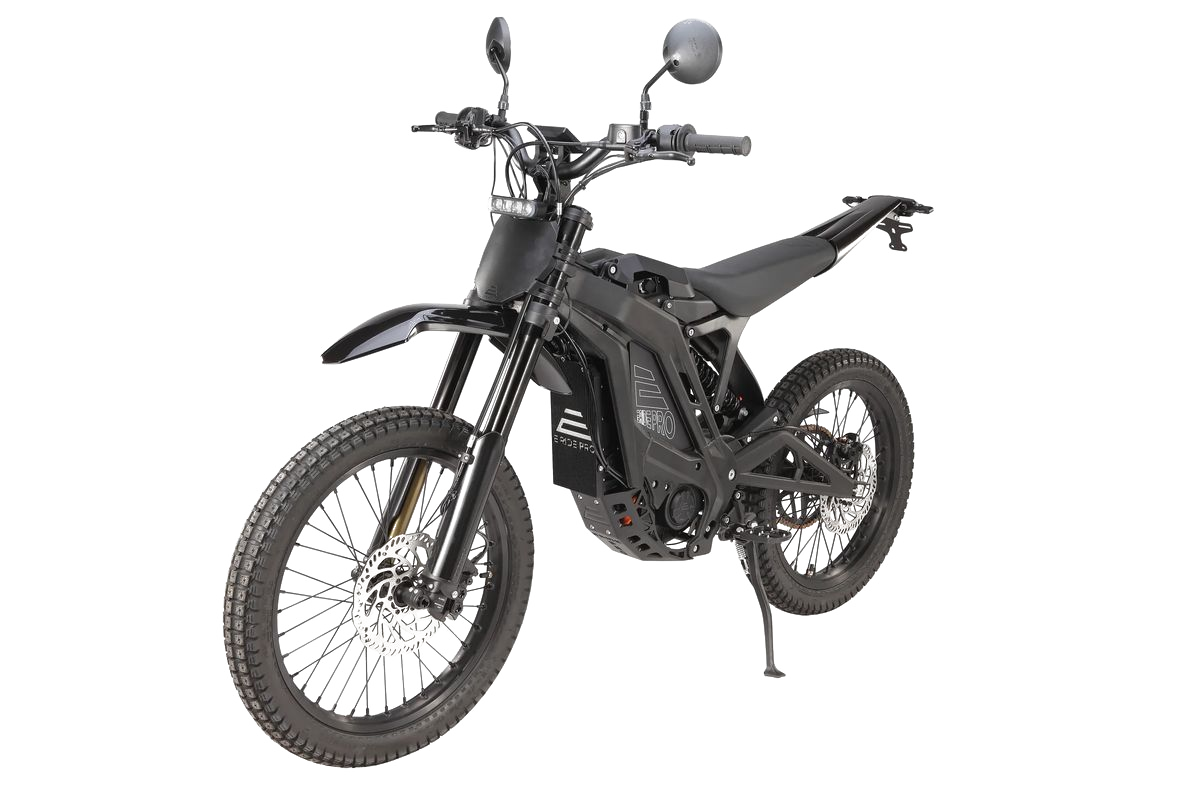
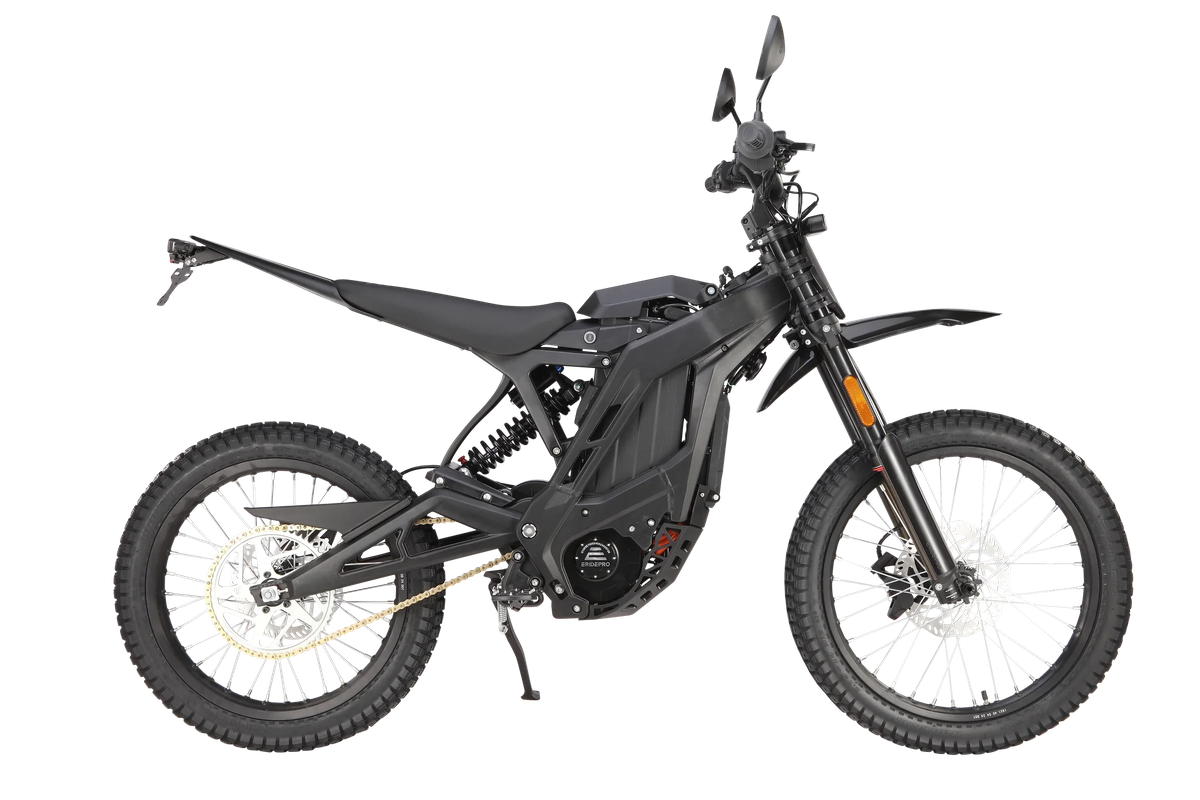
fix(visual): unify product images on dark backgrounds and clean up assets
- Replace broken -main-bg.png references with -main.png across meta tags, manifest, sitemap
- Replace SS 3.0 Off Road logo with actual bike photo
- Replace SS 2.5 L1E and hero images with dark-background variants
- Remove white card frames from product images; use subtle radial gradient instead
- Add Off Road filter and localize filter labels
- Fix Instagram links to point to @user
- Improve cookie consent accessibility (labels, Escape handling)
- Add button types and footer focus styles
- Remove duplicate images/ folder and .DS_Store files

diff --git a/src/components/CookieConsent.tsx b/src/components/CookieConsent.tsx
@@ -1,4 +1,4 @@
-import { useState } from 'react'
+import { useState, useEffect } from 'react'
 import { useLang } from '../hooks/useLang'
 
 interface CookiePreferences {
@@ -38,10 +38,12 @@ function Toggle({
   active,
   onClick,
   disabled,
+  ariaLabel,
 }: {
   active: boolean
   onClick?: () => void
   disabled?: boolean
+  ariaLabel?: string
 }) {
   return (
     <button
@@ -50,6 +52,7 @@ function Toggle({
       disabled={disabled}
       aria-checked={active}
       role="switch"
+      aria-label={ariaLabel}
       className={`relative w-10 h-6 rounded-full flex items-center flex-shrink-0 transition-colors ${
         active ? 'bg-[var(--accent)]' : 'bg-white/10'
       } ${disabled ? 'cursor-default' : 'cursor-pointer'}`}
@@ -75,8 +78,6 @@ export default function CookieConsent() {
     if (typeof window === 'undefined') return defaultPreferences
     return getStoredConsent()?.preferences ?? defaultPreferences
   })
-
-  if (!visible) return null
 
   const acceptAll = () => {
     const allAccepted = {
@@ -155,11 +156,23 @@ export default function CookieConsent() {
 
   const t = translations[isBg ? 'bg' : 'en']
 
+  useEffect(() => {
+    if (!visible) return
+    const onKeyDown = (e: KeyboardEvent) => {
+      if (e.key === 'Escape') {
+        rejectAll()
+      }
+    }
+    document.addEventListener('keydown', onKeyDown)
+    return () => document.removeEventListener('keydown', onKeyDown)
+  }, [visible])
+
+  if (!visible) return null
+
   return (
     <div className="fixed inset-0 z-[200] flex items-end sm:items-center justify-center">
       <div
         className="absolute inset-0 bg-black/60 transition-opacity"
-        onClick={() => setVisible(false)}
         aria-hidden="true"
       />
 
@@ -189,7 +202,7 @@ export default function CookieConsent() {
         {showDetails && (
           <div className="px-6 pb-4 space-y-3 border-t border-white/[0.04] pt-4">
             <div className="flex items-start gap-3">
-              <Toggle active disabled />
+              <Toggle active disabled ariaLabel={t.necessary} />
               <div className="flex-1">
                 <div className="flex items-center justify-between">
                   <span className="text-[14px] font-medium text-white">{t.necessary}</span>
@@ -200,7 +213,7 @@ export default function CookieConsent() {
             </div>
 
             <div className="flex items-start gap-3">
-              <Toggle active={preferences.analytics} onClick={() => togglePreference('analytics')} />
+              <Toggle active={preferences.analytics} onClick={() => togglePreference('analytics')} ariaLabel={t.analytics} />
               <div className="flex-1">
                 <span className="text-[14px] font-medium text-white">{t.analytics}</span>
                 <p className="text-[12px] text-white/40 mt-0.5">{t.analyticsDesc}</p>
@@ -208,7 +221,7 @@ export default function CookieConsent() {
             </div>
 
             <div className="flex items-start gap-3">
-              <Toggle active={preferences.marketing} onClick={() => togglePreference('marketing')} />
+              <Toggle active={preferences.marketing} onClick={() => togglePreference('marketing')} ariaLabel={t.marketing} />
               <div className="flex-1">
                 <span className="text-[14px] font-medium text-white">{t.marketing}</span>
                 <p className="text-[12px] text-white/40 mt-0.5">{t.marketingDesc}</p>
@@ -216,7 +229,7 @@ export default function CookieConsent() {
             </div>
 
             <div className="flex items-start gap-3">
-              <Toggle active={preferences.preferences} onClick={() => togglePreference('preferences')} />
+              <Toggle active={preferences.preferences} onClick={() => togglePreference('preferences')} ariaLabel={t.preferences} />
               <div className="flex-1">
                 <span className="text-[14px] font-medium text-white">{t.preferences}</span>
                 <p className="text-[12px] text-white/40 mt-0.5">{t.preferencesDesc}</p>

diff --git a/src/pages/ProductDetail.tsx b/src/pages/ProductDetail.tsx
@@ -35,12 +35,12 @@ function RelatedModels({ currentProduct }: { currentProduct: ReturnType<typeof g
             to={`/product/${p.slug}`}
             className="group bg-[#1a1a1a] border border-white/[0.06] rounded-2xl overflow-hidden hover:border-white/15 transition-all focus:outline-none focus-visible:ring-2 focus-visible:ring-[var(--accent)]"
           >
-            <div className="aspect-square bg-[#141414] p-4 overflow-hidden">
+            <div className="aspect-square bg-[radial-gradient(circle_at_center,_#2a2a2a_0%,_#1a1a1a_45%,_#0f0f0f_80%)] p-6 overflow-hidden">
               <img
                 src={p.image}
                 alt={p.alt}
                 loading="lazy"
-                className="w-full h-full object-contain group-hover:scale-105 transition-transform duration-500"
+                className="w-full h-full object-contain group-hover:scale-105 transition-transform duration-500 drop-shadow-xl"
                 onError={(e) => { e.currentTarget.style.display = 'none' }}
               />
             </div>
@@ -123,7 +123,7 @@ export default function ProductDetail() {
             </Link>
             <span className="text-white/20">/</span>
             <Link to="/#models" className="text-white/50 hover:text-white transition-colors">
-              MODELS
+              {isBg ? 'МОДЕЛИ' : 'MODELS'}
             </Link>
             <span className="text-white/20">/</span>
             <span className="text-white/80 font-medium" aria-current="page">
@@ -138,15 +138,13 @@ export default function ProductDetail() {
         <div className="grid grid-cols-1 lg:grid-cols-2 gap-10 lg:gap-16 items-start">
           {/* Image gallery */}
           <div className="pd-anim flex gap-3" style={{ opacity: prefersReducedMotion ? 1 : 0 }}>
-            <div className="flex-1 aspect-square bg-[radial-gradient(circle_at_center,_#7a7a7a_0%,_#303030_35%,_#141414_70%)] rounded-2xl overflow-hidden flex items-center justify-center p-6 md:p-10">
-              <div className="w-full h-full bg-white rounded-xl p-5 md:p-8 shadow-[0_25px_60px_rgba(0,0,0,0.55)] flex items-center justify-center">
-                <img
-                  src={product.image}
-                  alt={product.alt}
-                  className="w-full h-full object-contain"
-                  onError={(e) => { e.currentTarget.style.display = 'none' }}
-                />
-              </div>
+            <div className="flex-1 aspect-square bg-[radial-gradient(circle_at_center,_#2a2a2a_0%,_#1a1a1a_45%,_#0f0f0f_80%)] rounded-2xl overflow-hidden flex items-center justify-center p-6 md:p-10">
+              <img
+                src={product.image}
+                alt={product.alt}
+                className="w-full h-full object-contain drop-shadow-2xl"
+                onError={(e) => { e.currentTarget.style.display = 'none' }}
+              />
             </div>
           </div>
 

diff --git a/src/sections/Models.tsx b/src/sections/Models.tsx
@@ -10,7 +10,8 @@ gsap.registerPlugin(ScrollTrigger)
 const filters: { key: FilterKey; label: string; labelBg: string }[] = [
   { key: 'all', label: 'All', labelBg: 'Всички' },
   { key: 'mini', label: 'Mini', labelBg: 'Mini' },
-  { key: 'road-legal', label: 'Road Legal', labelBg: 'Road Legal' },
+  { key: 'road-legal', label: 'Road Legal', labelBg: 'Пътен' },
+  { key: 'off-road-fatty', label: 'Off Road', labelBg: 'Офроуд' },
   { key: 'sr', label: 'SR', labelBg: 'SR' },
   { key: 'ss-30', label: 'SS 3.0', labelBg: 'SS 3.0' },
   { key: 'ss-25', label: 'SS 2.5', labelBg: 'SS 2.5' },
@@ -80,6 +81,7 @@ export default function Models() {
           >
             {filters.map((f) => (
               <button
+                type="button"
                 key={f.key}
                 onClick={() => setActiveFilter(f.key)}
                 className={`filter-pill whitespace-nowrap focus:outline-none focus-visible:ring-2 focus-visible:ring-[var(--accent)] ${
@@ -101,16 +103,14 @@ export default function Models() {
               className="product-card group bg-[#1a1a1a] border border-white/[0.06] rounded-2xl overflow-hidden card-hover focus:outline-none focus-visible:ring-2 focus-visible:ring-[var(--accent)]"
               style={{ opacity: prefersReducedMotion ? 1 : 0 }}
             >
-              <div className="relative aspect-square bg-[radial-gradient(circle_at_center,_#5a5a5a_0%,_#252525_35%,_#141414_70%)] overflow-hidden flex items-center justify-center p-4">
-                <div className="w-[94%] h-[94%] bg-white rounded-lg p-3 shadow-[0_15px_40px_rgba(0,0,0,0.45)] flex items-center justify-center">
-                  <img
-                    src={product.image}
-                    alt={product.alt}
-                    loading="lazy"
-                    className="w-full h-full object-contain transition-transform duration-700 group-hover:scale-105"
-                    onError={(e) => { e.currentTarget.style.display = 'none' }}
-                  />
-                </div>
+              <div className="relative aspect-square bg-[radial-gradient(circle_at_center,_#2a2a2a_0%,_#1a1a1a_45%,_#0f0f0f_80%)] overflow-hidden flex items-center justify-center p-6">
+                <img
+                  src={product.image}
+                  alt={product.alt}
+                  loading="lazy"
+                  className="w-full h-full object-contain transition-transform duration-700 group-hover:scale-105 drop-shadow-2xl"
+                  onError={(e) => { e.currentTarget.style.display = 'none' }}
+                />
                 <div className="absolute inset-0 flex items-center justify-center pointer-events-none">
                   <span className="px-5 py-2.5 bg-[var(--accent)] text-white text-[11px] font-bold tracking-wider uppercase rounded-full opacity-0 group-hover:opacity-100 transition-all duration-300 translate-y-4 group-hover:translate-y-0 shadow-xl">
                     {t('quick_view')}

diff --git a/index.html b/index.html
@@ -28,7 +28,7 @@
     <meta property="og:url" content="https://kastaventures.com" />
     <meta property="og:title" content="E RIDE PRO Bulgaria | Electric Dirt Bikes & Moto Cross" />
     <meta property="og:description" content="Official distributor of E RIDE PRO electric dirt bikes in Bulgaria. 2-year warranty, service & parts." />
-    <meta property="og:image" content="https://kastaventures.com/images/kasta/sr-offroad-main-bg.png" />
+    <meta property="og:image" content="https://kastaventures.com/images/kasta/sr-offroad-main.png" />
     <meta property="og:image:alt" content="E RIDE PRO SR Off Road electric dirt bike" />
     <meta property="og:site_name" content="Kasta Ventures" />
     <meta property="og:locale" content="bg_BG" />
@@ -39,7 +39,7 @@
     <meta name="twitter:url" content="https://kastaventures.com" />
     <meta name="twitter:title" content="E RIDE PRO Bulgaria | Electric Dirt Bikes & Moto Cross" />
     <meta name="twitter:description" content="Official distributor of E RIDE PRO electric dirt bikes in Bulgaria. 2-year warranty, service & parts." />
-    <meta name="twitter:image" content="https://kastaventures.com/images/kasta/sr-offroad-main-bg.png" />
+    <meta name="twitter:image" content="https://kastaventures.com/images/kasta/sr-offroad-main.png" />
     <meta name="twitter:image:alt" content="E RIDE PRO SR Off Road electric dirt bike" />
 
     <!-- Theme Color -->
@@ -164,7 +164,7 @@
         {
           "@type": "Product",
           "name": "E Ride Pro - Mini R - 72V 2026",
-          "image": "https://kastaventures.com/images/kasta/mini-main-bg.png",
+          "image": "https://kastaventures.com/images/kasta/mini-main.png",
           "description": "Compact electric dirt bike perfect for beginners. 8kW peak power, 77 km/h top speed, 80-120 km range.",
           "brand": { "@type": "Brand", "name": "E RIDE PRO" },
           "offers": {
@@ -178,7 +178,7 @@
         {
           "@type": "Product",
           "name": "E Ride Pro SR - Off Road Fatty",
-          "image": "https://kastaventures.com/images/kasta/sr-offroad-main-bg.png",
+          "image": "https://kastaventures.com/images/kasta/sr-offroad-main.png",
           "description": "High-performance off-road electric dirt bike. 8kW peak power, 75 km/h top speed.",
           "brand": { "@type": "Brand", "name": "E RIDE PRO" },
           "offers": {
@@ -192,7 +192,7 @@
         {
           "@type": "Product",
           "name": "E Ride Pro SR - L1e - Road Legal",
-          "image": "https://kastaventures.com/images/kasta/sr-l1e-main-bg.png",
+          "image": "https://kastaventures.com/images/kasta/sr-l1e-main.png",
           "description": "Road legal electric dirt bike with EU homologation. 45 km/h, AM license required.",
           "brand": { "@type": "Brand", "name": "E RIDE PRO" },
           "offers": {

diff --git a/src/sections/Footer.tsx b/src/sections/Footer.tsx
@@ -5,20 +5,20 @@ import { Link, useLocation } from 'react-router'
 function NavItem({ to, hash, isHome, children }: { to?: string; hash?: string; isHome: boolean; children: ReactNode }) {
   if (hash && isHome) {
     return (
-      <a href={hash} className="block text-[14px] text-white/70 hover:text-white transition-colors">
+      <a href={hash} className="block text-[14px] text-white/70 hover:text-white transition-colors focus:outline-none focus-visible:text-white focus-visible:ring-2 focus-visible:ring-[var(--accent)] rounded-sm">
         {children}
       </a>
     )
   }
   if (hash && !isHome) {
     return (
-      <Link to={`/${hash}`} className="block text-[14px] text-white/70 hover:text-white transition-colors">
+      <Link to={`/${hash}`} className="block text-[14px] text-white/70 hover:text-white transition-colors focus:outline-none focus-visible:text-white focus-visible:ring-2 focus-visible:ring-[var(--accent)] rounded-sm">
         {children}
       </Link>
     )
   }
   return (
-    <Link to={to || '/'} className="block text-[14px] text-white/70 hover:text-white transition-colors">
+    <Link to={to || '/'} className="block text-[14px] text-white/70 hover:text-white transition-colors focus:outline-none focus-visible:text-white focus-visible:ring-2 focus-visible:ring-[var(--accent)] rounded-sm">
       {children}
     </Link>
   )
@@ -73,7 +73,7 @@ export default function Footer() {
             {/* Social */}
             <div className="flex gap-3 mt-6">
               <a
-                href="https://instagram.com"
+                href="https://instagram.com/erideprobulgaria"
                 target="_blank"
                 rel="noopener noreferrer"
                 className="w-10 h-10 rounded-full border border-white/20 flex items-center justify-center text-white/60 hover:text-white hover:border-white/40 transition-all"
@@ -114,6 +114,7 @@ export default function Footer() {
               <p className="text-[13px] text-white/50">{t('location_address')}</p>
             </div>
             <button
+              type="button"
               onClick={scrollToTop}
               className="mt-8 inline-flex items-center gap-2 text-[12px] text-white/50 hover:text-white transition-colors group"
             >

diff --git a/src/sections/Navigation.tsx b/src/sections/Navigation.tsx
@@ -72,7 +72,7 @@ export default function Navigation() {
           {/* Right */}
           <div className="hidden md:flex items-center gap-4">
             <a
-              href="https://instagram.com"
+              href="https://instagram.com/erideprobulgaria"
               target="_blank"
               rel="noopener noreferrer"
               className="w-8 h-8 rounded-full border border-white/20 flex items-center justify-center text-white/60 hover:text-white hover:border-white/40 transition-all"
@@ -85,6 +85,7 @@ export default function Navigation() {
               </svg>
             </a>
             <button
+              type="button"
               onClick={toggleLang}
               className="text-[11px] font-semibold tracking-wider text-white/60 hover:text-white px-3 py-1.5 rounded-full hover:bg-white/10 transition-all"
               aria-label={isBg ? 'Switch to English' : 'Превключи на български'}
@@ -95,6 +96,7 @@ export default function Navigation() {
 
           {/* Mobile hamburger */}
           <button
+            type="button"
             className="md:hidden w-8 h-8 flex flex-col justify-center items-center gap-1.5"
             onClick={() => setMobileOpen(!mobileOpen)}
             aria-expanded={mobileOpen}
@@ -137,6 +139,7 @@ export default function Navigation() {
           {t('nav_contact')}
         </Link>
         <button
+          type="button"
           onClick={() => { toggleLang(); setMobileOpen(false) }}
           className="text-lg text-white/40 hover:text-white/70"
         >

diff --git a/src/sections/Hero.tsx b/src/sections/Hero.tsx
@@ -78,8 +78,8 @@ export default function Hero() {
           <a href="#models" className="btn-accent focus:outline-none focus-visible:ring-2 focus-visible:ring-white focus-visible:ring-offset-2 focus-visible:ring-offset-[#0f0f0f]">
             {isBg ? 'ВИЖ МОДЕЛИТЕ' : 'VIEW MODELS'}
           </a>
-          <a href="#specs" className="btn-outline focus:outline-none focus-visible:ring-2 focus-visible:ring-white focus-visible:ring-offset-2 focus-visible:ring-offset-[#0f0f0f]">
-            {isBg ? 'СПЕЦИФИКАЦИИ' : 'SPECIFICATIONS'}
+          <a href="/models" className="btn-outline focus:outline-none focus-visible:ring-2 focus-visible:ring-white focus-visible:ring-offset-2 focus-visible:ring-offset-[#0f0f0f]">
+            {isBg ? 'МОДЕЛИ' : 'MODELS'}
           </a>
         </div>
 